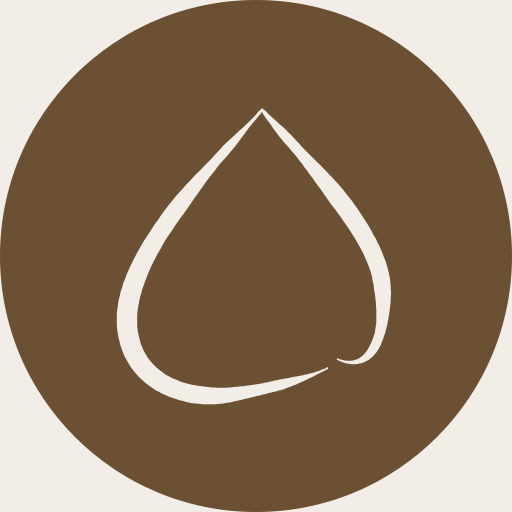
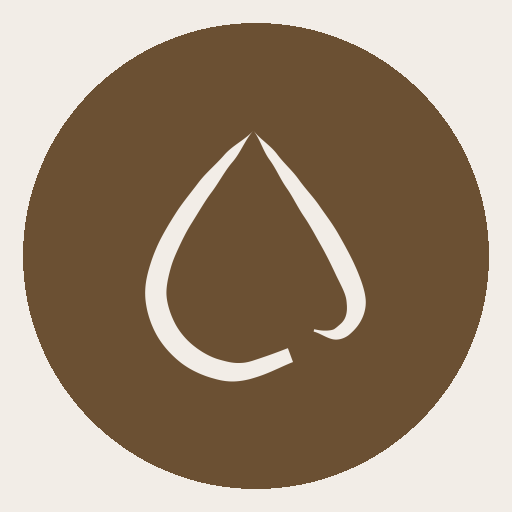
Retrace the Aura mark from the brand artwork
The traced mark was wrong. It closed the droplet into a continuous loop with
lumpy, uneven edges, when the real mark is one open calligraphic gesture: a
blunt tail under the bowl, up the long left side to a sharp apex, then down the
right and curling inward into a hook, with a deliberate opening at the lower
right. The closed loop is precisely the thing the mark is not.

Rebuilt from a centreline and a width profile so the taper is geometry rather
than a uniform stroke. The apex is two ribbons that each taper to nothing and
meet at a point — offsetting one centreline through a corner that sharp folds
the outline over itself and grows a blob there, which is what the previous
attempt did. Fitted to the same 100 x 106 box the brand assets already used, so
every file that embeds the path keeps its viewBox.

Replaced in the mark, the mono mark, the avatar, both wordmarks and the app's
own logo component, and the home-screen icons regenerated from it: the mark
reversed out of a Tol Barad disc, matching the brand avatar. The generator is
kept beside the assets so the next correction starts from the curve rather than
from 15,000 characters of path data.

Claude-Session: https://claude.ai/code/session_01D1e5Bcd5gD3YSwVnkMHfF6

Changed region(s): [[0.0, 0.0, 1.0, 1.0], [0.2188, 0.2188, 0.7812, 0.8125]]

diff --git a/web/src/logo.tsx b/web/src/logo.tsx
@@ -1,4 +1,4 @@
-export const MARK_PATH = "M73.9 89.7 L73.4 89.9 L73.0 90.2 L72.5 90.3 L72.1 90.5 L71.6 90.7 L71.1 90.9 L70.6 91.1 L70.1 91.2 L69.6 91.4 L69.1 91.6 L68.5 91.7 L68.0 91.8 L67.4 92.0 L66.9 92.1 L66.3 92.2 L65.8 92.4 L65.2 92.5 L64.6 92.6 L64.1 92.7 L63.5 92.8 L62.9 92.9 L62.3 93.0 L61.7 93.1 L61.1 93.3 L60.5 93.4 L59.9 93.5 L59.3 93.6 L58.6 93.7 L58.0 93.8 L57.4 94.0 L56.8 94.1 L56.1 94.2 L55.5 94.4 L54.9 94.5 L54.2 94.7 L53.6 94.8 L52.9 94.9 L52.3 95.1 L51.6 95.2 L51.0 95.3 L50.3 95.4 L49.6 95.5 L49.0 95.6 L48.3 95.7 L47.6 95.8 L46.9 95.9 L46.2 96.0 L45.5 96.1 L44.8 96.1 L44.1 96.2 L43.4 96.3 L42.7 96.3 L42.0 96.4 L41.3 96.5 L40.7 96.5 L39.8 96.6 L38.9 96.6 L38.1 96.6 L37.2 96.6 L36.3 96.5 L35.5 96.5 L34.6 96.4 L33.7 96.3 L32.9 96.2 L32.1 96.1 L31.2 96.0 L30.4 95.9 L29.6 95.7 L28.7 95.6 L27.9 95.4 L27.1 95.2 L26.4 95.0 L25.6 94.8 L24.8 94.5 L24.1 94.2 L23.4 93.9 L22.6 93.6 L21.9 93.3 L21.2 92.9 L20.6 92.6 L19.9 92.2 L19.3 91.8 L18.7 91.3 L18.1 90.9 L17.5 90.4 L16.9 89.9 L16.4 89.4 L15.9 88.9 L15.4 88.4 L14.9 87.8 L14.5 87.3 L14.0 86.7 L13.6 86.0 L13.2 85.4 L12.9 84.8 L12.5 84.1 L12.2 83.4 L11.9 82.7 L11.6 81.9 L11.4 81.2 L11.2 80.4 L11.0 79.6 L10.8 78.7 L10.6 77.9 L10.5 77.0 L10.4 76.1 L10.4 75.1 L10.4 74.2 L10.4 73.2 L10.4 72.2 L10.5 71.1 L10.7 69.9 L10.9 68.7 L11.1 67.5 L11.4 66.2 L11.8 65.0 L12.1 63.7 L12.6 62.4 L13.0 61.2 L13.5 59.9 L14.0 58.6 L14.6 57.2 L15.2 55.9 L15.8 54.6 L16.5 53.3 L17.2 51.9 L18.0 50.6 L18.7 49.3 L19.5 47.9 L20.3 46.6 L21.2 45.3 L22.1 44.0 L23.0 42.6 L23.9 41.3 L24.8 40.0 L25.8 38.7 L26.7 37.4 L27.7 36.0 L28.6 34.7 L29.5 33.3 L30.5 32.0 L31.4 30.7 L32.4 29.3 L33.3 28.0 L34.3 26.7 L35.3 25.4 L36.3 24.2 L37.2 22.9 L38.2 21.7 L39.3 20.5 L40.3 19.4 L41.3 18.2 L42.3 17.0 L43.2 15.9 L44.1 14.7 L45.0 13.5 L45.8 12.4 L46.7 11.2 L47.5 10.1 L48.3 9.1 L49.1 8.1 L50.0 7.1 L50.8 6.1 L51.6 5.2 L52.0 4.6 L52.3 5.3 L53.0 6.3 L53.7 7.3 L54.5 8.3 L55.2 9.3 L55.9 10.4 L56.7 11.4 L57.5 12.5 L58.3 13.5 L59.2 14.6 L60.1 15.6 L61.0 16.6 L61.9 17.7 L62.8 18.7 L63.7 19.8 L64.5 20.9 L65.4 22.0 L66.2 23.2 L67.1 24.3 L67.9 25.5 L68.8 26.6 L69.6 27.8 L70.4 28.9 L71.3 30.1 L72.1 31.2 L72.9 32.4 L73.7 33.5 L74.5 34.7 L75.3 35.8 L76.2 36.9 L77.0 38.0 L77.8 39.1 L78.6 40.2 L79.3 41.3 L80.1 42.4 L80.8 43.4 L81.5 44.5 L82.2 45.6 L82.9 46.7 L83.5 47.7 L84.1 48.8 L84.7 49.8 L85.2 50.8 L85.8 51.9 L86.2 52.9 L86.7 53.9 L87.1 54.9 L87.5 55.9 L87.8 56.8 L88.2 57.8 L88.4 58.7 L88.7 59.7 L88.8 60.6 L89.0 61.4 L89.2 62.3 L89.3 63.2 L89.4 64.2 L89.6 65.1 L89.7 66.0 L89.8 66.8 L89.9 67.7 L90.0 68.6 L90.0 69.4 L90.1 70.2 L90.1 71.0 L90.1 71.8 L90.1 72.6 L90.1 73.4 L90.1 74.1 L90.1 74.9 L90.0 75.6 L89.9 76.3 L89.8 77.0 L89.7 77.6 L89.6 78.3 L89.4 78.9 L89.2 79.5 L89.0 80.1 L88.8 80.6 L88.6 81.1 L88.4 81.6 L88.1 82.1 L87.9 82.6 L87.7 83.0 L87.4 83.5 L87.2 83.9 L86.9 84.3 L86.7 84.6 L86.4 85.0 L86.1 85.3 L85.8 85.6 L85.5 85.9 L85.2 86.2 L84.8 86.4 L84.5 86.7 L84.1 86.9 L83.7 87.1 L83.3 87.2 L82.9 87.3 L82.4 87.5 L82.0 87.5 L81.5 87.6 L81.0 87.6 L80.5 87.6 L80.0 87.5 L79.4 87.5 L78.9 87.3 L78.3 87.2 L77.7 87.0 L77.1 86.7 L76.9 87.3 L77.5 87.5 L78.1 87.8 L78.7 88.0 L79.2 88.2 L79.8 88.4 L80.4 88.5 L80.9 88.6 L81.5 88.7 L82.0 88.7 L82.5 88.8 L83.1 88.7 L83.6 88.7 L84.1 88.6 L84.7 88.5 L85.2 88.4 L85.7 88.2 L86.2 88.0 L86.7 87.7 L87.2 87.5 L87.7 87.2 L88.1 86.8 L88.6 86.5 L89.0 86.1 L89.4 85.6 L89.8 85.2 L90.2 84.7 L90.5 84.2 L90.9 83.6 L91.2 83.0 L91.5 82.5 L91.8 81.8 L92.0 81.2 L92.3 80.5 L92.5 79.9 L92.7 79.2 L93.0 78.5 L93.2 77.7 L93.4 77.0 L93.6 76.2 L93.8 75.4 L93.9 74.6 L94.1 73.8 L94.2 73.0 L94.4 72.1 L94.5 71.3 L94.6 70.4 L94.7 69.5 L94.8 68.6 L94.9 67.6 L94.9 66.7 L95.0 65.7 L95.0 64.7 L94.9 63.7 L94.9 62.7 L94.8 61.7 L94.7 60.6 L94.5 59.5 L94.3 58.4 L94.0 57.2 L93.7 56.1 L93.4 55.0 L93.0 53.9 L92.5 52.7 L92.1 51.6 L91.6 50.5 L91.1 49.3 L90.5 48.2 L90.0 47.0 L89.3 45.9 L88.7 44.7 L88.1 43.6 L87.4 42.4 L86.7 41.3 L85.9 40.1 L85.2 38.9 L84.4 37.8 L83.6 36.6 L82.8 35.5 L82.0 34.3 L81.1 33.2 L80.2 32.1 L79.3 30.9 L78.4 29.8 L77.5 28.8 L76.5 27.7 L75.5 26.6 L74.5 25.6 L73.5 24.5 L72.5 23.5 L71.5 22.4 L70.4 21.4 L69.4 20.4 L68.4 19.4 L67.4 18.4 L66.4 17.4 L65.4 16.4 L64.5 15.3 L63.5 14.3 L62.6 13.3 L61.7 12.3 L60.7 11.4 L59.8 10.4 L58.8 9.5 L57.8 8.7 L56.9 7.8 L55.9 6.9 L55.0 6.1 L54.1 5.3 L53.3 4.4 L52.0 3.4 L50.8 4.5 L50.0 5.5 L49.2 6.4 L48.3 7.3 L47.4 8.2 L46.4 9.1 L45.4 10.1 L44.3 11.0 L43.3 12.0 L42.2 13.0 L41.1 14.0 L40.0 15.0 L38.9 16.1 L37.9 17.2 L36.8 18.4 L35.8 19.5 L34.7 20.7 L33.6 21.8 L32.4 23.0 L31.3 24.2 L30.1 25.3 L29.0 26.5 L27.9 27.7 L26.7 28.9 L25.6 30.2 L24.5 31.4 L23.3 32.7 L22.3 34.0 L21.2 35.3 L20.2 36.6 L19.2 37.9 L18.2 39.3 L17.3 40.7 L16.3 42.0 L15.4 43.4 L14.5 44.8 L13.6 46.2 L12.7 47.5 L11.9 48.9 L11.1 50.3 L10.3 51.7 L9.6 53.1 L8.9 54.5 L8.2 55.9 L7.5 57.4 L6.9 58.8 L6.4 60.2 L5.8 61.6 L5.4 63.1 L4.9 64.5 L4.6 65.9 L4.2 67.4 L4.0 68.8 L3.8 70.3 L3.6 71.8 L3.6 73.1 L3.6 74.3 L3.6 75.5 L3.7 76.7 L3.8 77.8 L4.0 78.9 L4.2 80.0 L4.5 81.1 L4.7 82.2 L5.1 83.2 L5.4 84.2 L5.8 85.2 L6.2 86.1 L6.7 87.0 L7.2 87.9 L7.7 88.8 L8.2 89.6 L8.8 90.4 L9.4 91.2 L10.1 92.0 L10.7 92.7 L11.4 93.4 L12.1 94.0 L12.8 94.7 L13.6 95.3 L14.3 95.9 L15.1 96.4 L15.9 97.0 L16.7 97.5 L17.6 97.9 L18.4 98.4 L19.3 98.8 L20.2 99.2 L21.1 99.6 L22.0 99.9 L22.9 100.2 L23.8 100.5 L24.7 100.8 L25.7 101.0 L26.6 101.3 L27.6 101.5 L28.5 101.7 L29.5 101.8 L30.5 101.9 L31.4 102.0 L32.4 102.1 L33.4 102.1 L34.4 102.1 L35.4 102.1 L36.4 102.1 L37.4 102.0 L38.4 101.9 L39.3 101.8 L40.3 101.6 L41.3 101.5 L42.1 101.3 L42.8 101.1 L43.5 101.0 L44.2 100.8 L44.9 100.7 L45.6 100.5 L46.3 100.3 L47.0 100.2 L47.7 100.0 L48.4 99.8 L49.0 99.7 L49.7 99.5 L50.4 99.3 L51.1 99.2 L51.7 99.0 L52.4 98.8 L53.1 98.7 L53.7 98.5 L54.4 98.3 L55.0 98.2 L55.7 98.0 L56.3 97.9 L57.0 97.7 L57.6 97.5 L58.3 97.4 L58.9 97.2 L59.5 97.0 L60.1 96.7 L60.7 96.5 L61.3 96.3 L61.9 96.1 L62.5 95.8 L63.1 95.6 L63.6 95.4 L64.2 95.1 L64.7 94.9 L65.3 94.6 L65.8 94.4 L66.4 94.1 L66.9 93.9 L67.4 93.6 L67.9 93.4 L68.5 93.1 L69.0 92.9 L69.5 92.6 L70.0 92.4 L70.4 92.1 L70.9 91.9 L71.4 91.6 L71.9 91.4 L72.3 91.2 L72.8 90.9 L73.2 90.7 L73.7 90.5 L74.1 90.3 Z";
+export const MARK_PATH = "M 62.92 89.73 L 62.58 89.85 L 62.19 90.00 L 61.77 90.16 L 61.32 90.33 L 60.83 90.52 L 60.31 90.72 L 59.77 90.93 L 59.20 91.14 L 58.61 91.36 L 57.99 91.59 L 57.36 91.82 L 56.71 92.06 L 56.04 92.30 L 55.37 92.54 L 54.69 92.78 L 54.00 93.02 L 53.31 93.25 L 52.62 93.49 L 51.94 93.72 L 51.27 93.95 L 50.60 94.17 L 49.95 94.38 L 49.32 94.59 L 48.71 94.79 L 48.11 94.96 L 47.55 95.12 L 47.01 95.25 L 46.50 95.35 L 46.04 95.44 L 45.61 95.50 L 45.19 95.55 L 44.76 95.59 L 44.35 95.61 L 43.95 95.63 L 43.56 95.65 L 43.18 95.65 L 42.81 95.64 L 42.45 95.63 L 42.10 95.61 L 41.75 95.59 L 41.41 95.55 L 41.08 95.52 L 40.75 95.47 L 40.43 95.43 L 40.11 95.37 L 39.79 95.32 L 39.47 95.26 L 39.15 95.19 L 38.83 95.12 L 38.51 95.05 L 38.19 94.97 L 37.86 94.89 L 37.53 94.80 L 37.19 94.72 L 36.85 94.63 L 36.50 94.53 L 36.15 94.44 L 35.79 94.34 L 35.42 94.23 L 35.06 94.12 L 34.71 94.01 L 34.37 93.90 L 34.03 93.78 L 33.69 93.65 L 33.35 93.52 L 33.00 93.38 L 32.66 93.23 L 32.32 93.08 L 31.97 92.92 L 31.63 92.76 L 31.29 92.59 L 30.95 92.42 L 30.61 92.24 L 30.27 92.06 L 29.94 91.87 L 29.60 91.68 L 29.27 91.49 L 28.94 91.29 L 28.62 91.09 L 28.30 90.88 L 27.98 90.67 L 27.66 90.46 L 27.35 90.25 L 27.04 90.03 L 26.73 89.82 L 26.43 89.60 L 26.14 89.37 L 25.85 89.15 L 25.56 88.93 L 25.27 88.70 L 24.99 88.47 L 24.71 88.23 L 24.42 87.99 L 24.14 87.74 L 23.86 87.49 L 23.59 87.23 L 23.31 86.97 L 23.04 86.71 L 22.77 86.44 L 22.51 86.16 L 22.24 85.89 L 21.99 85.60 L 21.73 85.32 L 21.48 85.03 L 21.23 84.74 L 20.99 84.44 L 20.75 84.15 L 20.51 83.85 L 20.28 83.54 L 20.05 83.24 L 19.83 82.93 L 19.61 82.62 L 19.40 82.31 L 19.20 82.00 L 18.99 81.69 L 18.80 81.37 L 18.61 81.06 L 18.42 80.74 L 18.24 80.42 L 18.07 80.10 L 17.90 79.78 L 17.73 79.44 L 17.56 79.10 L 17.39 78.75 L 17.23 78.40 L 17.07 78.04 L 16.91 77.68 L 16.75 77.31 L 16.60 76.94 L 16.45 76.57 L 16.31 76.20 L 16.17 75.82 L 16.03 75.44 L 15.90 75.06 L 15.78 74.67 L 15.65 74.29 L 15.54 73.90 L 15.43 73.52 L 15.32 73.13 L 15.22 72.75 L 15.13 72.37 L 15.04 71.99 L 14.96 71.61 L 14.88 71.23 L 14.81 70.86 L 14.75 70.49 L 14.70 70.12 L 14.65 69.76 L 14.61 69.41 L 14.58 69.06 L 14.55 68.72 L 14.53 68.37 L 14.52 68.03 L 14.51 67.69 L 14.52 67.34 L 14.52 66.99 L 14.54 66.64 L 14.56 66.29 L 14.59 65.93 L 14.62 65.57 L 14.66 65.21 L 14.70 64.85 L 14.75 64.48 L 14.81 64.11 L 14.86 63.74 L 14.93 63.37 L 14.99 62.99 L 15.06 62.61 L 15.14 62.22 L 15.22 61.84 L 15.31 61.44 L 15.39 61.05 L 15.49 60.65 L 15.58 60.25 L 15.68 59.85 L 15.79 59.44 L 15.89 59.03 L 16.00 58.62 L 16.12 58.20 L 16.23 57.79 L 16.35 57.39 L 16.46 56.99 L 16.59 56.59 L 16.72 56.19 L 16.85 55.79 L 16.99 55.39 L 17.14 54.98 L 17.29 54.58 L 17.45 54.17 L 17.61 53.76 L 17.78 53.35 L 17.95 52.93 L 18.13 52.52 L 18.31 52.10 L 18.50 51.68 L 18.68 51.26 L 18.87 50.84 L 19.07 50.41 L 19.26 49.99 L 19.46 49.56 L 19.66 49.13 L 19.86 48.69 L 20.07 48.26 L 20.28 47.82 L 20.49 47.38 L 20.70 46.94 L 20.92 46.50 L 21.14 46.05 L 21.36 45.61 L 21.59 45.17 L 21.81 44.73 L 22.04 44.29 L 22.27 43.85 L 22.51 43.41 L 22.76 42.96 L 23.01 42.52 L 23.26 42.07 L 23.53 41.62 L 23.79 41.17 L 24.06 40.72 L 24.34 40.27 L 24.62 39.83 L 24.91 39.37 L 25.19 38.92 L 25.47 38.46 L 25.76 38.00 L 26.04 37.54 L 26.33 37.08 L 26.61 36.62 L 26.90 36.15 L 27.18 35.69 L 27.47 35.22 L 27.76 34.75 L 28.05 34.28 L 28.34 33.82 L 28.63 33.35 L 28.92 32.89 L 29.21 32.42 L 29.51 31.96 L 29.80 31.50 L 30.10 31.04 L 30.40 30.59 L 30.70 30.14 L 31.00 29.69 L 31.31 29.25 L 31.63 28.80 L 31.94 28.36 L 32.27 27.92 L 32.59 27.49 L 32.92 27.05 L 33.24 26.60 L 33.55 26.16 L 33.86 25.70 L 34.17 25.25 L 34.47 24.79 L 34.78 24.32 L 35.08 23.86 L 35.38 23.39 L 35.68 22.92 L 35.98 22.45 L 36.29 21.98 L 36.59 21.50 L 36.89 21.03 L 37.20 20.55 L 37.51 20.08 L 37.83 19.61 L 38.14 19.13 L 38.47 18.66 L 38.79 18.19 L 39.13 17.73 L 39.47 17.26 L 39.83 16.79 L 40.21 16.31 L 40.62 15.82 L 41.04 15.33 L 41.45 14.82 L 41.86 14.28 L 42.26 13.73 L 42.64 13.16 L 43.02 12.58 L 43.39 11.99 L 43.75 11.39 L 44.11 10.79 L 44.45 10.18 L 44.80 9.59 L 45.13 9.00 L 45.47 8.42 L 45.80 7.85 L 46.12 7.31 L 46.44 6.78 L 46.76 6.27 L 47.07 5.79 L 47.38 5.34 L 47.67 4.91 L 47.96 4.51 L 48.24 4.15 L 48.50 3.81 L 48.75 3.51 L 48.98 3.24 L 49.19 3.00 L 49.19 3.00 L 48.98 3.23 L 48.73 3.49 L 48.46 3.77 L 48.15 4.06 L 47.81 4.38 L 47.45 4.70 L 47.05 5.04 L 46.63 5.39 L 46.18 5.74 L 45.70 6.11 L 45.21 6.48 L 44.70 6.86 L 44.17 7.24 L 43.62 7.63 L 43.07 8.03 L 42.51 8.43 L 41.95 8.85 L 41.38 9.27 L 40.82 9.70 L 40.28 10.14 L 39.74 10.59 L 39.22 11.05 L 38.71 11.52 L 38.23 12.00 L 37.77 12.49 L 37.34 12.99 L 36.91 13.47 L 36.48 13.94 L 36.06 14.39 L 35.65 14.82 L 35.24 15.24 L 34.84 15.66 L 34.43 16.07 L 34.02 16.48 L 33.61 16.89 L 33.21 17.29 L 32.80 17.70 L 32.39 18.11 L 31.98 18.51 L 31.58 18.92 L 31.18 19.33 L 30.78 19.74 L 30.38 20.15 L 29.99 20.56 L 29.60 20.98 L 29.22 21.40 L 28.85 21.83 L 28.48 22.26 L 28.12 22.69 L 27.76 23.13 L 27.41 23.58 L 27.07 24.03 L 26.73 24.48 L 26.39 24.93 L 26.05 25.38 L 25.70 25.82 L 25.35 26.27 L 25.01 26.71 L 24.66 27.16 L 24.32 27.61 L 23.97 28.05 L 23.63 28.49 L 23.28 28.94 L 22.94 29.38 L 22.59 29.83 L 22.25 30.28 L 21.91 30.73 L 21.56 31.19 L 21.22 31.64 L 20.89 32.10 L 20.55 32.55 L 20.22 33.02 L 19.89 33.48 L 19.56 33.94 L 19.24 34.41 L 18.93 34.88 L 18.62 35.35 L 18.31 35.83 L 18.01 36.30 L 17.71 36.78 L 17.41 37.25 L 17.11 37.72 L 16.82 38.19 L 16.53 38.67 L 16.24 39.14 L 15.95 39.61 L 15.66 40.07 L 15.38 40.54 L 15.11 41.01 L 14.83 41.48 L 14.57 41.93 L 14.31 42.39 L 14.04 42.84 L 13.79 43.30 L 13.53 43.75 L 13.28 44.21 L 13.03 44.67 L 12.78 45.13 L 12.54 45.58 L 12.30 46.04 L 12.06 46.50 L 11.83 46.97 L 11.60 47.43 L 11.38 47.89 L 11.16 48.36 L 10.95 48.82 L 10.74 49.29 L 10.54 49.76 L 10.34 50.23 L 10.14 50.70 L 9.95 51.16 L 9.76 51.63 L 9.57 52.10 L 9.39 52.57 L 9.21 53.05 L 9.04 53.52 L 8.87 53.99 L 8.70 54.46 L 8.54 54.94 L 8.39 55.41 L 8.24 55.86 L 8.10 56.31 L 7.96 56.76 L 7.82 57.21 L 7.69 57.66 L 7.56 58.12 L 7.43 58.57 L 7.30 59.03 L 7.18 59.49 L 7.07 59.95 L 6.95 60.42 L 6.85 60.89 L 6.75 61.35 L 6.65 61.82 L 6.56 62.30 L 6.47 62.77 L 6.40 63.25 L 6.33 63.73 L 6.26 64.22 L 6.21 64.70 L 6.16 65.19 L 6.12 65.69 L 6.09 66.18 L 6.07 66.68 L 6.05 67.18 L 6.04 67.68 L 6.05 68.18 L 6.06 68.69 L 6.08 69.20 L 6.11 69.71 L 6.15 70.21 L 6.20 70.72 L 6.26 71.22 L 6.32 71.73 L 6.40 72.24 L 6.48 72.74 L 6.57 73.25 L 6.67 73.75 L 6.77 74.25 L 6.88 74.76 L 7.00 75.26 L 7.13 75.76 L 7.27 76.26 L 7.41 76.75 L 7.55 77.25 L 7.71 77.74 L 7.87 78.23 L 8.03 78.71 L 8.21 79.20 L 8.38 79.68 L 8.57 80.15 L 8.76 80.62 L 8.96 81.09 L 9.16 81.55 L 9.36 82.01 L 9.58 82.47 L 9.80 82.92 L 10.02 83.36 L 10.25 83.80 L 10.48 84.23 L 10.72 84.66 L 10.97 85.09 L 11.23 85.52 L 11.49 85.94 L 11.76 86.36 L 12.04 86.77 L 12.32 87.18 L 12.61 87.58 L 12.90 87.98 L 13.20 88.38 L 13.50 88.77 L 13.81 89.16 L 14.12 89.54 L 14.44 89.92 L 14.76 90.29 L 15.09 90.66 L 15.41 91.02 L 15.75 91.38 L 16.09 91.73 L 16.43 92.08 L 16.77 92.43 L 17.12 92.77 L 17.47 93.10 L 17.82 93.43 L 18.18 93.76 L 18.53 94.08 L 18.90 94.39 L 19.26 94.70 L 19.63 95.00 L 20.00 95.30 L 20.37 95.60 L 20.76 95.89 L 21.15 96.17 L 21.54 96.45 L 21.94 96.72 L 22.35 96.99 L 22.76 97.25 L 23.17 97.51 L 23.58 97.76 L 24.00 98.00 L 24.43 98.24 L 24.86 98.47 L 25.28 98.70 L 25.72 98.92 L 26.15 99.13 L 26.59 99.34 L 27.03 99.55 L 27.47 99.75 L 27.91 99.94 L 28.36 100.13 L 28.80 100.31 L 29.25 100.48 L 29.70 100.66 L 30.14 100.82 L 30.59 100.98 L 31.04 101.13 L 31.49 101.28 L 31.94 101.42 L 32.39 101.56 L 32.83 101.68 L 33.25 101.80 L 33.66 101.91 L 34.07 102.03 L 34.48 102.14 L 34.90 102.24 L 35.32 102.34 L 35.74 102.44 L 36.16 102.53 L 36.59 102.61 L 37.03 102.69 L 37.47 102.75 L 37.91 102.82 L 38.36 102.87 L 38.82 102.91 L 39.28 102.95 L 39.74 102.98 L 40.21 102.99 L 40.69 103.00 L 41.17 103.00 L 41.65 102.99 L 42.15 102.96 L 42.64 102.93 L 43.15 102.88 L 43.66 102.83 L 44.17 102.76 L 44.69 102.69 L 45.22 102.60 L 45.76 102.50 L 46.30 102.39 L 46.86 102.27 L 47.46 102.13 L 48.09 101.97 L 48.73 101.78 L 49.38 101.59 L 50.05 101.38 L 50.72 101.17 L 51.41 100.94 L 52.11 100.70 L 52.81 100.45 L 53.52 100.18 L 54.23 99.90 L 54.93 99.62 L 55.64 99.32 L 56.34 99.03 L 57.03 98.72 L 57.71 98.42 L 58.38 98.12 L 59.04 97.83 L 59.68 97.54 L 60.31 97.25 L 60.91 96.98 L 61.49 96.72 L 62.05 96.47 L 62.58 96.24 L 63.07 96.03 L 63.53 95.83 L 63.95 95.65 L 64.33 95.50 L 64.67 95.37 L 64.96 95.26 Z M 49.19 3.00 L 49.34 3.21 L 49.51 3.45 L 49.69 3.71 L 49.88 3.99 L 50.08 4.31 L 50.29 4.64 L 50.50 5.00 L 50.71 5.38 L 50.93 5.78 L 51.15 6.21 L 51.38 6.65 L 51.61 7.11 L 51.84 7.58 L 52.07 8.07 L 52.30 8.57 L 52.54 9.08 L 52.78 9.59 L 53.02 10.11 L 53.27 10.63 L 53.53 11.15 L 53.80 11.67 L 54.07 12.18 L 54.35 12.69 L 54.64 13.19 L 54.94 13.67 L 55.25 14.14 L 55.57 14.60 L 55.89 15.04 L 56.20 15.49 L 56.50 15.93 L 56.78 16.37 L 57.07 16.83 L 57.35 17.29 L 57.62 17.75 L 57.90 18.23 L 58.17 18.70 L 58.44 19.18 L 58.71 19.67 L 58.98 20.16 L 59.25 20.65 L 59.52 21.14 L 59.80 21.64 L 60.07 22.13 L 60.35 22.63 L 60.64 23.12 L 60.93 23.61 L 61.22 24.10 L 61.53 24.58 L 61.84 25.06 L 62.16 25.54 L 62.48 26.01 L 62.81 26.48 L 63.13 26.96 L 63.44 27.44 L 63.75 27.93 L 64.05 28.42 L 64.35 28.91 L 64.64 29.41 L 64.93 29.90 L 65.22 30.40 L 65.50 30.91 L 65.79 31.42 L 66.08 31.93 L 66.38 32.44 L 66.67 32.96 L 66.97 33.47 L 67.27 33.98 L 67.57 34.49 L 67.88 35.00 L 68.19 35.51 L 68.50 36.01 L 68.83 36.51 L 69.15 37.00 L 69.49 37.49 L 69.81 37.98 L 70.14 38.48 L 70.46 38.97 L 70.77 39.47 L 71.08 39.97 L 71.38 40.47 L 71.68 40.97 L 71.98 41.47 L 72.27 41.97 L 72.56 42.47 L 72.85 42.96 L 73.13 43.46 L 73.41 43.95 L 73.68 44.44 L 73.95 44.93 L 74.22 45.41 L 74.49 45.90 L 74.76 46.39 L 75.04 46.89 L 75.32 47.38 L 75.59 47.87 L 75.88 48.37 L 76.16 48.86 L 76.43 49.36 L 76.71 49.85 L 76.98 50.35 L 77.25 50.85 L 77.52 51.35 L 77.78 51.85 L 78.04 52.34 L 78.30 52.84 L 78.56 53.33 L 78.81 53.82 L 79.06 54.31 L 79.30 54.80 L 79.54 55.28 L 79.78 55.76 L 80.02 56.24 L 80.25 56.71 L 80.47 57.18 L 80.69 57.64 L 80.91 58.09 L 81.12 58.54 L 81.33 58.98 L 81.54 59.42 L 81.74 59.85 L 81.95 60.29 L 82.15 60.73 L 82.36 61.16 L 82.57 61.58 L 82.77 61.99 L 82.98 62.41 L 83.18 62.81 L 83.38 63.21 L 83.57 63.60 L 83.76 63.99 L 83.95 64.37 L 84.13 64.74 L 84.31 65.11 L 84.48 65.48 L 84.65 65.83 L 84.81 66.19 L 84.96 66.53 L 85.11 66.87 L 85.24 67.21 L 85.37 67.53 L 85.50 67.85 L 85.61 68.17 L 85.72 68.48 L 85.81 68.78 L 85.90 69.07 L 85.98 69.35 L 86.05 69.63 L 86.11 69.90 L 86.16 70.16 L 86.20 70.42 L 86.24 70.68 L 86.27 70.94 L 86.30 71.20 L 86.33 71.45 L 86.35 71.70 L 86.37 71.95 L 86.39 72.19 L 86.41 72.44 L 86.43 72.68 L 86.44 72.91 L 86.45 73.15 L 86.45 73.38 L 86.45 73.61 L 86.45 73.84 L 86.45 74.07 L 86.44 74.30 L 86.43 74.52 L 86.41 74.75 L 86.39 74.97 L 86.36 75.19 L 86.33 75.40 L 86.30 75.62 L 86.26 75.83 L 86.22 76.04 L 86.17 76.25 L 86.12 76.46 L 86.06 76.66 L 86.00 76.86 L 85.94 77.06 L 85.87 77.25 L 85.79 77.44 L 85.71 77.63 L 85.63 77.82 L 85.53 78.01 L 85.43 78.20 L 85.31 78.40 L 85.19 78.59 L 85.06 78.78 L 84.93 78.97 L 84.78 79.15 L 84.64 79.33 L 84.48 79.51 L 84.32 79.68 L 84.15 79.84 L 83.98 80.00 L 83.81 80.15 L 83.64 80.30 L 83.47 80.45 L 83.30 80.59 L 83.13 80.74 L 82.97 80.88 L 82.81 81.02 L 82.65 81.16 L 82.49 81.29 L 82.34 81.42 L 82.18 81.54 L 82.03 81.66 L 81.88 81.77 L 81.73 81.88 L 81.60 81.97 L 81.48 82.06 L 81.35 82.15 L 81.18 82.23 L 80.97 82.31 L 80.74 82.39 L 80.49 82.46 L 80.21 82.52 L 79.91 82.58 L 79.60 82.62 L 79.28 82.66 L 78.94 82.69 L 78.60 82.72 L 78.25 82.73 L 77.90 82.74 L 77.55 82.74 L 77.20 82.73 L 76.86 82.71 L 76.52 82.69 L 76.18 82.66 L 75.86 82.62 L 75.54 82.58 L 75.24 82.54 L 74.95 82.49 L 74.68 82.44 L 74.42 82.39 L 74.17 82.34 L 73.94 82.29 L 73.73 82.24 L 73.54 82.21 L 73.37 82.18 L 73.19 83.14 L 73.34 83.17 L 73.51 83.21 L 73.70 83.26 L 73.91 83.33 L 74.13 83.41 L 74.38 83.50 L 74.63 83.60 L 74.90 83.71 L 75.19 83.84 L 75.48 83.97 L 75.78 84.11 L 76.09 84.26 L 76.41 84.41 L 76.73 84.57 L 77.06 84.73 L 77.40 84.89 L 77.74 85.06 L 78.09 85.22 L 78.44 85.38 L 78.80 85.53 L 79.16 85.68 L 79.53 85.81 L 79.90 85.94 L 80.27 86.05 L 80.65 86.15 L 81.04 86.23 L 81.44 86.28 L 81.85 86.32 L 82.26 86.32 L 82.67 86.29 L 83.05 86.25 L 83.41 86.19 L 83.76 86.12 L 84.11 86.03 L 84.46 85.93 L 84.80 85.81 L 85.14 85.68 L 85.48 85.53 L 85.80 85.37 L 86.12 85.20 L 86.44 85.01 L 86.74 84.82 L 87.04 84.61 L 87.32 84.38 L 87.60 84.15 L 87.87 83.91 L 88.14 83.67 L 88.40 83.42 L 88.66 83.17 L 88.92 82.92 L 89.17 82.67 L 89.41 82.41 L 89.65 82.14 L 89.89 81.88 L 90.12 81.61 L 90.35 81.33 L 90.57 81.05 L 90.78 80.77 L 90.99 80.48 L 91.18 80.20 L 91.37 79.91 L 91.56 79.62 L 91.73 79.32 L 91.91 79.02 L 92.08 78.71 L 92.24 78.40 L 92.40 78.08 L 92.55 77.76 L 92.70 77.43 L 92.84 77.09 L 92.97 76.75 L 93.10 76.40 L 93.22 76.05 L 93.33 75.69 L 93.43 75.32 L 93.53 74.95 L 93.61 74.58 L 93.69 74.20 L 93.76 73.82 L 93.82 73.43 L 93.87 73.03 L 93.91 72.63 L 93.93 72.23 L 93.95 71.83 L 93.96 71.42 L 93.95 71.01 L 93.93 70.59 L 93.90 70.17 L 93.85 69.75 L 93.80 69.33 L 93.73 68.89 L 93.66 68.46 L 93.58 68.02 L 93.49 67.59 L 93.39 67.15 L 93.28 66.72 L 93.17 66.29 L 93.06 65.86 L 92.93 65.43 L 92.81 65.00 L 92.67 64.57 L 92.54 64.14 L 92.39 63.71 L 92.25 63.28 L 92.10 62.85 L 91.94 62.42 L 91.78 61.98 L 91.62 61.55 L 91.45 61.11 L 91.28 60.68 L 91.11 60.24 L 90.94 59.81 L 90.76 59.37 L 90.57 58.93 L 90.39 58.49 L 90.20 58.05 L 90.01 57.62 L 89.81 57.18 L 89.61 56.74 L 89.41 56.29 L 89.20 55.83 L 88.98 55.37 L 88.75 54.89 L 88.52 54.41 L 88.28 53.93 L 88.04 53.45 L 87.79 52.96 L 87.54 52.46 L 87.28 51.96 L 87.02 51.46 L 86.75 50.96 L 86.48 50.45 L 86.21 49.95 L 85.94 49.44 L 85.66 48.92 L 85.37 48.41 L 85.09 47.89 L 84.80 47.38 L 84.52 46.86 L 84.22 46.34 L 83.93 45.82 L 83.64 45.31 L 83.34 44.79 L 83.05 44.27 L 82.75 43.75 L 82.45 43.24 L 82.14 42.73 L 81.83 42.23 L 81.51 41.73 L 81.19 41.23 L 80.87 40.73 L 80.54 40.23 L 80.20 39.73 L 79.86 39.23 L 79.52 38.74 L 79.17 38.24 L 78.82 37.75 L 78.47 37.25 L 78.12 36.76 L 77.77 36.26 L 77.41 35.77 L 77.06 35.27 L 76.71 34.78 L 76.36 34.28 L 76.01 33.78 L 75.67 33.29 L 75.33 32.79 L 74.98 32.29 L 74.62 31.80 L 74.26 31.32 L 73.90 30.85 L 73.53 30.37 L 73.15 29.91 L 72.78 29.44 L 72.40 28.99 L 72.02 28.53 L 71.65 28.08 L 71.27 27.63 L 70.90 27.18 L 70.53 26.74 L 70.16 26.28 L 69.79 25.83 L 69.42 25.38 L 69.06 24.92 L 68.70 24.46 L 68.34 24.00 L 67.99 23.54 L 67.64 23.07 L 67.30 22.60 L 66.96 22.13 L 66.61 21.67 L 66.26 21.21 L 65.89 20.76 L 65.53 20.32 L 65.15 19.88 L 64.77 19.45 L 64.39 19.03 L 64.01 18.60 L 63.62 18.18 L 63.24 17.77 L 62.85 17.35 L 62.47 16.94 L 62.09 16.53 L 61.72 16.12 L 61.35 15.72 L 60.98 15.31 L 60.62 14.90 L 60.27 14.49 L 59.92 14.08 L 59.58 13.67 L 59.25 13.25 L 58.91 12.82 L 58.58 12.38 L 58.23 11.93 L 57.87 11.50 L 57.49 11.07 L 57.09 10.64 L 56.69 10.23 L 56.27 9.82 L 55.84 9.42 L 55.41 9.02 L 54.98 8.64 L 54.55 8.26 L 54.12 7.88 L 53.70 7.51 L 53.28 7.15 L 52.88 6.79 L 52.48 6.45 L 52.10 6.10 L 51.74 5.77 L 51.39 5.44 L 51.06 5.12 L 50.75 4.81 L 50.47 4.51 L 50.20 4.22 L 49.95 3.94 L 49.73 3.68 L 49.53 3.43 L 49.35 3.21 L 49.19 3.00 Z";
 
 export function Mark({ size = 20 }: { size?: number }) {
   return (

diff --git a/assets/brand/trace-mark.py b/assets/brand/trace-mark.py
@@ -1,0 +1,105 @@
+"""
+The Aura droplet, rebuilt from the brand artwork.
+
+One calligraphic gesture: a blunt tail under the bowl, sweeping left and up the
+long left side to a sharp apex, then falling down the right and curling inward
+into a hook. The opening at the lower right is the character of the mark — a
+closed teardrop is the thing it must not become.
+
+Built as two ribbons that both taper to nothing at the apex, so the point is a
+real point. Offsetting one continuous centreline through a corner that sharp
+folds the outline over itself and grows a blob there instead.
+"""
+import math
+
+APEX = (48.0, 5.0)
+
+# tail -> apex, and its half-width at each knot
+LEFT = [(63.0, 96.0), (45.0, 102.5), (32.5, 101.5), (21.0, 95.5), (12.5, 85.5),
+        (8.5, 72.5), (10.5, 59.5), (16.5, 46.0), (25.5, 32.0), (36.0, 18.5), APEX]
+LEFT_W = [3.0, 3.4, 4.0, 4.3, 4.4, 4.3, 4.1, 3.8, 3.3, 2.2, 0.0]
+
+# apex -> hook tip
+RIGHT = [APEX, (57.0, 17.0), (67.0, 31.0), (77.0, 46.0), (85.0, 61.0),
+         (89.5, 73.0), (88.0, 82.0), (81.5, 87.5), (72.5, 86.0)]
+RIGHT_W = [0.0, 1.9, 3.0, 3.8, 4.2, 4.3, 3.9, 2.8, 0.5]
+
+
+def catmull(pts, per_span=30):
+    p = [pts[0]] + list(pts) + [pts[-1]]
+    out = []
+    for i in range(len(p) - 3):
+        p0, p1, p2, p3 = p[i], p[i + 1], p[i + 2], p[i + 3]
+        for s in range(per_span):
+            t = s / per_span
+            t2, t3 = t * t, t * t * t
+            out.append((
+                0.5 * ((2 * p1[0]) + (-p0[0] + p2[0]) * t +
+                       (2 * p0[0] - 5 * p1[0] + 4 * p2[0] - p3[0]) * t2 +
+                       (-p0[0] + 3 * p1[0] - 3 * p2[0] + p3[0]) * t3),
+                0.5 * ((2 * p1[1]) + (-p0[1] + p2[1]) * t +
+                       (2 * p0[1] - 5 * p1[1] + 4 * p2[1] - p3[1]) * t2 +
+                       (-p0[1] + 3 * p1[1] - 3 * p2[1] + p3[1]) * t3),
+            ))
+    out.append(pts[-1])
+    return out
+
+
+def widths(curve, half):
+    cum = [0.0]
+    for i in range(1, len(curve)):
+        cum.append(cum[-1] + math.dist(curve[i - 1], curve[i]))
+    total = cum[-1] or 1.0
+    at = [i / (len(half) - 1) * total for i in range(len(half))]
+    out = []
+    for d in cum:
+        k = min(range(len(at) - 1), key=lambda k: abs(d - at[k]) if at[k] <= d else 1e9)
+        for k in range(len(at) - 1):
+            if at[k] <= d <= at[k + 1]:
+                span = at[k + 1] - at[k]
+                u = 0 if span == 0 else (d - at[k]) / span
+                u = u * u * (3 - 2 * u)          # ease, so the taper has no kink
+                out.append(half[k] * (1 - u) + half[k + 1] * u)
+                break
+        else:
+            out.append(half[-1])
+    return out
+
+
+def ribbon(knots, half):
+    curve = catmull(knots)
+    w = widths(curve, half)
+    left, right = [], []
+    for i, (x, y) in enumerate(curve):
+        a, b = curve[max(0, i - 1)], curve[min(len(curve) - 1, i + 1)]
+        dx, dy = b[0] - a[0], b[1] - a[1]
+        n = math.hypot(dx, dy) or 1.0
+        nx, ny = -dy / n, dx / n
+        left.append((x + nx * w[i], y + ny * w[i]))
+        right.append((x - nx * w[i], y - ny * w[i]))
+    return left + right[::-1]
+
+
+def to_path(poly):
+    return "M " + " L ".join(f"{x:.2f} {y:.2f}" for x, y in poly) + " Z"
+
+
+polys = [ribbon(LEFT, LEFT_W), ribbon(RIGHT, RIGHT_W)]
+
+# Fit into the 100 x 106 box the rest of the brand assets already use, so every
+# file that embeds this path keeps its viewBox.
+BOX_W, BOX_H, PAD = 100.0, 106.0, 3.0
+xs = [x for poly in polys for x, _ in poly]
+ys = [y for poly in polys for _, y in poly]
+scale = min((BOX_W - 2 * PAD) / (max(xs) - min(xs)), (BOX_H - 2 * PAD) / (max(ys) - min(ys)))
+ox = (BOX_W - (max(xs) - min(xs)) * scale) / 2 - min(xs) * scale
+oy = (BOX_H - (max(ys) - min(ys)) * scale) / 2 - min(ys) * scale
+polys = [[(x * scale + ox, y * scale + oy) for x, y in poly] for poly in polys]
+
+MARK_D = " ".join(to_path(poly) for poly in polys)
+open("/tmp/claude-0/-home-user-Abdullah-Ramadan/5fcd0fa8-a5cd-52a2-b1af-f3b2fc975f26/scratchpad/mark.d", "w").write(MARK_D)
+
+xs = [x for poly in polys for x, _ in poly]
+ys = [y for poly in polys for _, y in poly]
+print(f"fitted x {min(xs):.1f}..{max(xs):.1f}   y {min(ys):.1f}..{max(ys):.1f}   (box 100 x 106)")
+print(f"path length {len(MARK_D)} chars")
